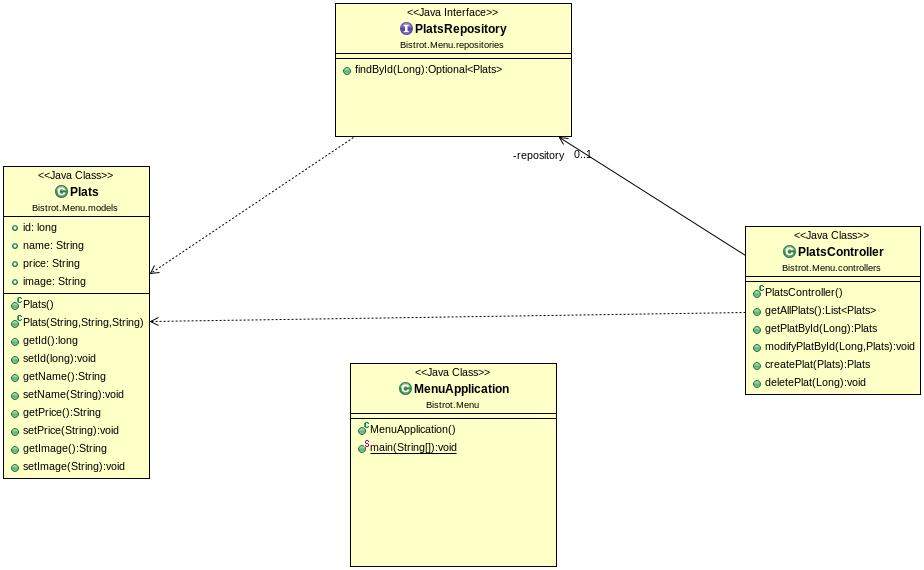
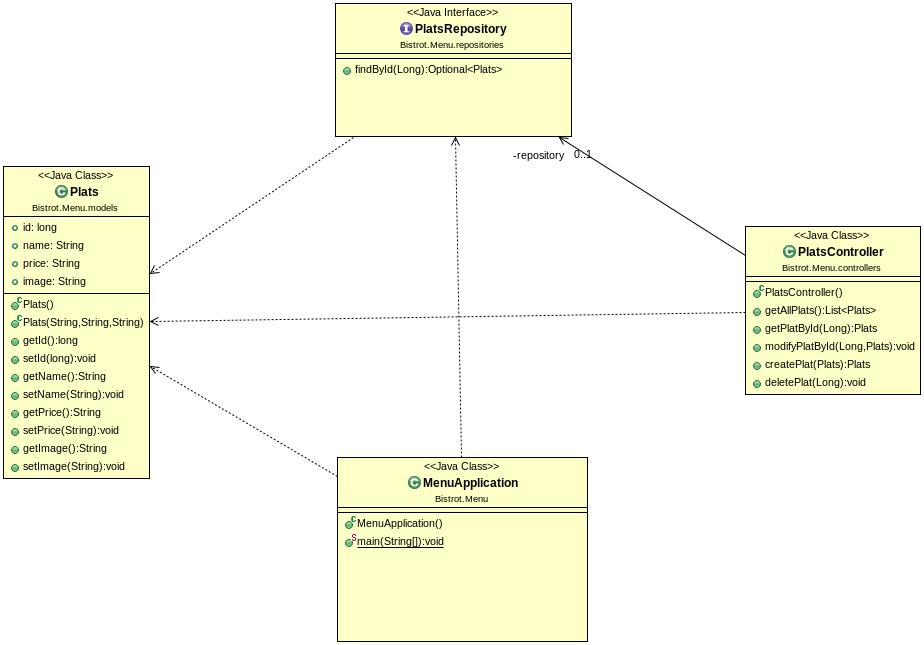
plzbefinal

diff --git a/frontend/src/service/PlatsDataService.js b/frontend/src/service/PlatsDataService.js
@@ -1,6 +1,7 @@
 import axios from 'axios'
-
+//
 const PLATS_API_URL = 'http://zuul.localhost/menu'
+// const PLATS_API_URL = 'http://localhost:8080/menu'
 
 class PlatsDataService {
 

diff --git a/Recette/src/main/java/Bistrot/Recette/RecetteApplication.java b/Recette/src/main/java/Bistrot/Recette/RecetteApplication.java
@@ -1,17 +1,34 @@
 package Bistrot.Recette;
 
+import org.springframework.beans.factory.annotation.Autowired;
 import org.springframework.boot.SpringApplication;
 import org.springframework.boot.autoconfigure.SpringBootApplication;
 import org.springframework.cloud.netflix.eureka.EnableEurekaClient;
+import org.springframework.context.ConfigurableApplicationContext;
 import org.springframework.data.jpa.repository.config.EnableJpaAuditing;
+
+import com.spotify.docker.client.shaded.javax.annotation.PostConstruct;
+
+import Bistrot.Recette.RecetteApplication;
+import Bistrot.Recette.models.Recette;
+import Bistrot.Recette.repositories.RecetteRepository;
 
 @EnableJpaAuditing
 @EnableEurekaClient
 @SpringBootApplication
 public class RecetteApplication {
-
+	@Autowired
+	RecetteRepository repository;
 	public static void main(String[] args) {
-		SpringApplication.run(RecetteApplication.class, args);
+		ConfigurableApplicationContext context = SpringApplication.run(RecetteApplication.class, args);
+
+	}
+    @PostConstruct
+	public void init() {
+    	repository.save(new Recette("Champignons de Paris à la tomate et au tofu","Égoutter et rincer les champignons de Paris puis, les mettre dans une poêle anti-adhésive, dans laquelle on aura fait chauffer environ 3 cuillères à soupes de vinaigre balsamique.Laisser cuire environ 3 min à feu vif puis, ajouter le tofu coupé en cube et le coulis de tomate.Saler à votre convenance. Couvrir, laisser cuire environs 5 min.","1 boîte de champignon de Paris (environs 250 g);75 g de tofu;Coulis de tomate;Vinaigre balsamique;Sel","15 min","1","https://img-3.journaldesfemmes.fr/vqTMPncQ3mYUyEfMlApXlKpSZjY=/750x/smart/8fde24fbf6074d76a4a151fa78d6a8d5/recipe-jdf/383606.jpg"));
+		repository.save(new Recette("Daurade","Découper la carotte en tranches fines, le fenouil en lanière minces. Hacher les oignons et ails. Déposer le poisson dans un plat allant au four, parsemer avec les légumes, oignon et ail, les herbes de Provence (environ 1 cuillère à café, plus ou moins selon le goût).     Saler, poivrer, verser le jus du 1/2 citron, ajouter un bon filet de huile olive.     Mettre au four une trentaine de minutes à 180°C (thermostat 6) en surveillant la cuisson. Réduire si les légumes brunissent trop.     Servir avec du riz blanc.","1 dorade;1/2 fenouil;1 carotte;1 gousse ail;1/4 oignon","35 min","2","https://img.cuisineaz.com/400x320/2013-12-20/i97355-daurade-au-four.jpg"));
+		repository.save(new Recette("Tian de légumes du soleil","Préchauffez le four à 210 °C (th. 7). Lavez et séchez les légumes et le thym. Coupez les légumes en rondelles d’environ 1/2 cm d’épaisseur. Déposez-les dans un plat à gratin en alternant les tranches d’aubergine, de courgette, de tomate, et en réalisant une forme circulaire. Ajoutez les gousses d’ail émincées. Arrosez d’huile d’olive. Parsemez de thym, de sel et de poivre. Enfournez le tian pour 30 mn, puis baissez le four à 180 °C (t h. 6) et laissez cuire encore 15 mn. Sortez du four et servez.","1 aubergine de 250 g environ;2 courgettes;4 tomates rondes;2 brins de thym frais;2 gousses ail;10 cl huile olive","45 min","4","https://resize-elle.ladmedia.fr/rcrop/638,,forcex/img/var/plain_site/storage/images/elle-a-table/recettes-de-cuisine/tian-de-legumes-du-soleil-3145546/68708779-2-fre-FR/Tian-de-legumes-du-soleil.jpg"));
+
 	}
 
 }

diff --git a/Menu/src/main/java/Bistrot/Menu/MenuApplication.java b/Menu/src/main/java/Bistrot/Menu/MenuApplication.java
@@ -1,16 +1,39 @@
 package Bistrot.Menu;
 
+import org.springframework.beans.factory.annotation.Autowired;
 import org.springframework.boot.SpringApplication;
 import org.springframework.boot.autoconfigure.SpringBootApplication;
 import org.springframework.cloud.netflix.eureka.EnableEurekaClient;
+import org.springframework.context.ConfigurableApplicationContext;
+
+import com.spotify.docker.client.shaded.javax.annotation.PostConstruct;
+
+import Bistrot.Menu.Plats;
+import Bistrot.Menu.PlatsRepository;
 
 
 @EnableEurekaClient
 @SpringBootApplication
-public class MenuApplication {
 
+public class MenuApplication {
+@Autowired
+PlatsRepository pltrep;
+	  
 	public static void main(String[] args) {
-		SpringApplication.run(MenuApplication.class, args);
+		ConfigurableApplicationContext context = SpringApplication.run(MenuApplication.class, args);
 	}
+    @PostConstruct
+public void init() {
+        pltrep.save(new Plats("Coq au vin", "20.75", "https://i.pinimg.com/originals/d6/fa/82/d6fa82829e5edcbcc6f7a3a087bb6cdd.jpg"));
+        pltrep.save(new Plats("Petit salé aux lentilles ", "18", "https://resize-elle.ladmedia.fr/rcrop/638,,forcex/img/var/plain_site/storage/images/elle-a-table/recettes-de-cuisine/le-petit-sale-aux-lentilles-2634663/45285195-5-fre-FR/Le-petit-sale-aux-lentilles.jpg"));
+        pltrep.save(new Plats("Navarin d’agneau ","13","https://resize-elle.ladmedia.fr/rcrop/638,,forcex/img/var/plain_site/storage/images/elle-a-table/recettes-de-cuisine/navarin-d-agneau-2343800/32318662-1-fre-FR/Navarin-d-agneau.jpeg"));
+        pltrep.save(new Plats("Pissaladière aux oignons","15.75","https://resize-elle.ladmedia.fr/rcrop/638,,forcex/img/var/plain_site/storage/images/elle-a-table/recettes-de-cuisine/pizza-pissaladiere-aux-oignons-2871512/51895860-3-fre-FR/Pizza-pissaladiere-aux-oignons.jpeg"));
+        pltrep.save(new Plats("Aïoli","19.25","https://resize-elle.ladmedia.fr/rcrop/638,,forcex/img/var/plain_site/storage/images/elle-a-table/recettes-de-cuisine/aioli-2438695/37023859-5-fre-FR/Aioli.jpeg"));
+        pltrep.save(new Plats("Croque-monsieur","8.75","https://resize-elle.ladmedia.fr/rcrop/638,,forcex/img/var/plain_site/storage/images/elle-a-table/recettes-de-cuisine/croque-monsieur-2280962/26592320-3-fre-FR/Croque-monsieur.jpeg"));
+        pltrep.save(new Plats("Terrine de poulet au vin blanc et fines herbes","18.5","https://resize-elle.ladmedia.fr/rcrop/638,,forcex/img/var/plain_site/storage/images/elle-a-table/recettes-de-cuisine/terrine-de-poulet-au-vin-blanc-et-fines-herbes-3114446/65562017-1-fre-FR/Terrine-de-poulet-au-vin-blanc-et-fines-herbes.jpeg"));
+        pltrep.save(new Plats("Maquereaux au vin blanc faciles","16.8","https://resize-elle.ladmedia.fr/rcrop/638,,forcex/img/var/plain_site/storage/images/elle-a-table/recettes-de-cuisine/maquereaux-au-vin-blanc-faciles-3015693/58465281-1-fre-FR/Maquereaux-au-vin-blanc-faciles.jpg"));
+        pltrep.save(new Plats("Gigot aux herbes, sauce ail","17.89","https://resize-elle.ladmedia.fr/rcrop/638,,forcex/img/var/plain_site/storage/images/elle-a-table/recettes-de-cuisine/gigot-aux-herbes-sauce-a-l-ail-2692671/46815451-1-fre-FR/Gigot-aux-herbes-sauce-a-l-ail.jpg"));
+
+}
 
 }

diff --git a/Menu/src/main/java/Bistrot/Menu/PlatsController.java b/Menu/src/main/java/Bistrot/Menu/PlatsController.java
@@ -1,4 +1,4 @@
-package Bistrot.Menu.controllers;
+package Bistrot.Menu;
 
 import java.util.List;
 
@@ -13,8 +13,8 @@ import org.springframework.web.bind.annotation.RequestMethod;
 import org.springframework.web.bind.annotation.ResponseBody;
 import org.springframework.web.bind.annotation.RestController;
 
-import Bistrot.Menu.models.Plats;
-import Bistrot.Menu.repositories.PlatsRepository;
+import Bistrot.Menu.Plats;
+import Bistrot.Menu.PlatsRepository;
 
 @RestController
 
@@ -23,37 +23,39 @@ import Bistrot.Menu.repositories.PlatsRepository;
 
 public class PlatsController {
   @Autowired
-  private PlatsRepository repository;
-  
+  PlatsRepository pltrep;
   @RequestMapping(value = "/menu", method = RequestMethod.GET)
   @ResponseBody
   public List<Plats> getAllPlats() {
-    return repository.findAll();
-  }
 
+    return pltrep.findAll();
+  }
+  public PlatsController(){
+
+  }
   @RequestMapping(value = "/menu/{id}", method = RequestMethod.GET)
   @ResponseBody
   public Plats getPlatById(@PathVariable("id") Long id) {
-    return repository.findById(id).get();
+    return pltrep.findById(id).get();
   }
   
   @RequestMapping(value = "/menu/{id}", method = RequestMethod.PUT)
   @ResponseBody
   public void modifyPlatById(@PathVariable("id") Long id, @Valid @RequestBody Plats Plats) {
     Plats.setId(id);
-    repository.save(Plats);
+    pltrep.save(Plats);
   }
   
   @RequestMapping(value = "/menu", method = RequestMethod.POST)
   @ResponseBody
   public Plats createPlat(@Valid @RequestBody Plats Plats) {
-    repository.save(Plats);
+	  pltrep.save(Plats);
     return Plats;
   }
   
   @RequestMapping(value = "/menu/{id}", method = RequestMethod.DELETE)
   @ResponseBody
   public void deletePlat(@PathVariable Long id) {
-    repository.delete(repository.findById(id).get());
+	  pltrep.delete(pltrep.findById(id).get());
   }
 }

diff --git a/Booking/src/main/java/Bistrot/Reservation/ReservationApplication.java b/Booking/src/main/java/Bistrot/Reservation/ReservationApplication.java
@@ -1,15 +1,30 @@
 package Bistrot.Reservation;
 
+import org.springframework.beans.factory.annotation.Autowired;
 import org.springframework.boot.SpringApplication;
 import org.springframework.boot.autoconfigure.SpringBootApplication;
 import org.springframework.cloud.netflix.eureka.EnableEurekaClient;
+import org.springframework.context.ConfigurableApplicationContext;
+
+import com.spotify.docker.client.shaded.javax.annotation.PostConstruct;
+
+import Bistrot.Reservation.models.Reservation;
+import Bistrot.Reservation.repositories.ReservationRepository;
 
 @EnableEurekaClient
 @SpringBootApplication
 public class ReservationApplication {
-
+	@Autowired
+	ReservationRepository repository;
 	public static void main(String[] args) {
-		SpringApplication.run(ReservationApplication.class, args);
+			ConfigurableApplicationContext context = SpringApplication.run(ReservationApplication.class, args);
 	}
-
+    @PostConstruct
+	public void init() {
+		repository.save(new Reservation("Aline S.","28/05/2020","2","outdoor","8:30:00 PM"));
+		repository.save(new Reservation("François P.","25/05/2020","3","indoor","6:30:00 PM"));
+		repository.save(new Reservation("Aman B.","01/06/2020","4","outdoor","6:00:00 PM"));
+		repository.save(new Reservation("Emma B.","17/05/2020","2","indoor","5:30:00 PM"));
+	
+	}
 }

diff --git a/Menu/src/main/java/Bistrot/Menu/PlatsRepository.java b/Menu/src/main/java/Bistrot/Menu/PlatsRepository.java
@@ -1,7 +1,7 @@
-package Bistrot.Menu.repositories;
+package Bistrot.Menu;
 
 
-import Bistrot.Menu.models.Plats;
+import Bistrot.Menu.Plats;
 
 import java.util.Optional;
 

diff --git a/Menu/src/main/java/Bistrot/Menu/Plats.java b/Menu/src/main/java/Bistrot/Menu/Plats.java
@@ -1,4 +1,4 @@
-package Bistrot.Menu.models;
+package Bistrot.Menu;
 
 import javax.persistence.Column;
 import javax.persistence.Entity;
